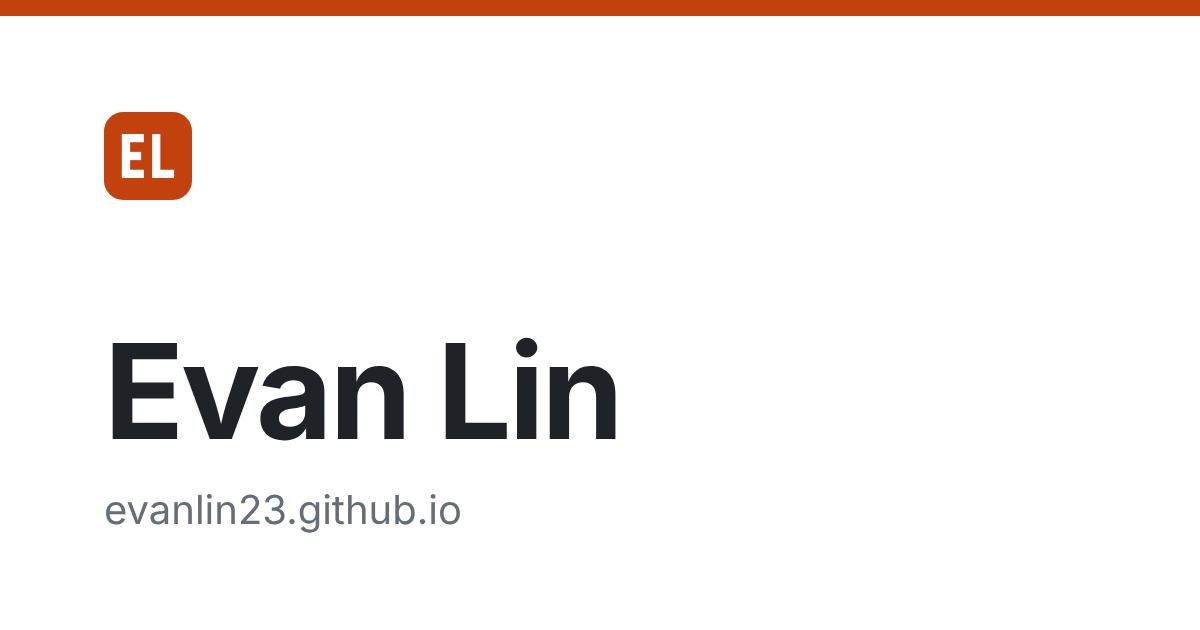
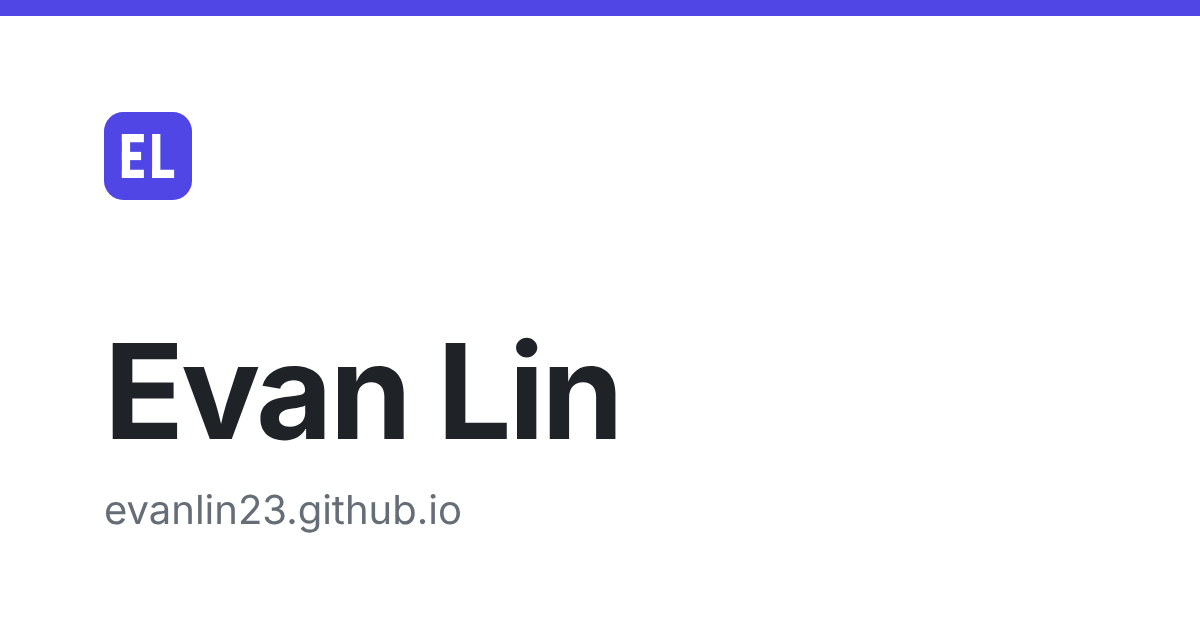
Brighten site with card timeline and indigo accent
Restyle the page with a light blue-tinted background, the Figtree
font, and each experience and education entry as a white card with
the company and date on one row. Section headings get a hatched rule
above them. Switch the accent from orange to indigo, including the
favicon and link-preview image. Content is unchanged.

Claude-Session: https://claude.ai/code/session_016md5fWPeeYFKqut8vThEVG

Changed region(s): [[0.0, 0.0, 1.0, 0.0302], [0.0617, 0.181, 0.185, 0.3317]]

diff --git a/index.html b/index.html
@@ -7,8 +7,8 @@
     <title>Evan Lin</title>
     <link rel="canonical" href="https://evanlin23.github.io/" />
     <link rel="icon" href="favicon.svg" type="image/svg+xml" />
-    <meta name="theme-color" content="#ffffff" media="(prefers-color-scheme: light)" />
-    <meta name="theme-color" content="#0d1117" media="(prefers-color-scheme: dark)" />
+    <meta name="theme-color" content="#f5f7ff" media="(prefers-color-scheme: light)" />
+    <meta name="theme-color" content="#0b1120" media="(prefers-color-scheme: dark)" />
     <meta property="og:type" content="website" />
     <meta property="og:url" content="https://evanlin23.github.io/" />
     <meta property="og:title" content="Evan Lin" />
@@ -18,6 +18,9 @@
     <meta property="og:image:height" content="630" />
     <meta property="og:image:alt" content="Evan Lin" />
     <meta name="twitter:card" content="summary_large_image" />
+    <link rel="preconnect" href="https://fonts.googleapis.com" />
+    <link rel="preconnect" href="https://fonts.gstatic.com" crossorigin />
+    <link href="https://fonts.googleapis.com/css2?family=Figtree:wght@400;500;600;700&display=swap" rel="stylesheet" />
     <link rel="stylesheet" href="styles.css" />
     <script type="application/ld+json">
       {
@@ -49,59 +52,38 @@
         <h2>Experience</h2>
         <ul class="timeline">
           <li>
-            <span class="date">May – Aug 2026</span>
-            <div>
-              <strong>Software Engineer Intern</strong>
-              <span>Roblox</span>
-              <small>Storage infrastructure</small>
-            </div>
+            <div><strong>Roblox</strong><span class="date">May – Aug 2026</span></div>
+            <span>Software Engineer Intern</span>
+            <small>Storage infrastructure</small>
           </li>
           <li>
-            <span class="date">May – Aug 2025</span>
-            <div>
-              <strong>Software Development Engineer Intern</strong>
-              <span>Amazon</span>
-              <small>Service log analysis</small>
-            </div>
+            <div><strong>Amazon</strong><span class="date">May – Aug 2025</span></div>
+            <span>Software Development Engineer Intern</span>
+            <small>Service log analysis</small>
           </li>
           <li>
-            <span class="date">Jan 2025 – Present</span>
-            <div>
-              <strong>Course Assistant → Teaching Assistant</strong>
-              <span>University of Illinois Urbana-Champaign</span>
-              <small>ECE 391 (Operating Systems), ECE 408 (Applied Parallel Programming)</small>
-            </div>
+            <div><strong>University of Illinois Urbana-Champaign</strong><span class="date">Jan 2025 – Present</span></div>
+            <span>Course Assistant → Teaching Assistant</span>
+            <small>ECE 391 (Operating Systems), ECE 408 (Applied Parallel Programming)</small>
           </li>
           <li>
-            <span class="date">Nov 2023 – May 2025</span>
-            <div>
-              <strong>Researcher</strong>
-              <span>Information Trust Institute</span>
-              <small>Linux kernel memory tracing</small>
-            </div>
+            <div><strong>Information Trust Institute</strong><span class="date">Nov 2023 – May 2025</span></div>
+            <span>Researcher</span>
+            <small>Linux kernel memory tracing</small>
           </li>
           <li>
-            <span class="date">Sep 2023 – May 2026</span>
-            <div>
-              <strong>Software Developer → Tech Lead → Co-Director</strong>
-              <span>Hack4Impact UIUC</span>
-              <small>Software for social good</small>
-            </div>
+            <div><strong>Hack4Impact UIUC</strong><span class="date">Sep 2023 – May 2026</span></div>
+            <span>Software Developer → Tech Lead → Co&#8209;Director</span>
+            <small>Software for social good</small>
           </li>
           <li>
-            <span class="date">Sep – Nov 2022</span>
-            <div>
-              <strong>Researcher</strong>
-              <span>Northwestern University</span>
-              <small>Lung tumor segmentation</small>
-            </div>
+            <div><strong>Northwestern University</strong><span class="date">Sep – Nov 2022</span></div>
+            <span>Researcher</span>
+            <small>Lung tumor segmentation</small>
           </li>
           <li>
-            <span class="date">May 2021 – Aug 2022</span>
-            <div>
-              <strong>AMC Preparation Instructor</strong>
-              <span>Oakton College</span>
-            </div>
+            <div><strong>Oakton College</strong><span class="date">May 2021 – Aug 2022</span></div>
+            <span>AMC Preparation Instructor</span>
           </li>
         </ul>
       </section>
@@ -110,18 +92,12 @@
         <h2>Education</h2>
         <ul class="timeline">
           <li>
-            <span class="date">Expected May 2027</span>
-            <div>
-              <strong>Master of Computer Science</strong>
-              <span>University of Illinois Urbana-Champaign</span>
-            </div>
+            <div><strong>Master of Computer Science</strong><span class="date">Expected May 2027</span></div>
+            <span>University of Illinois Urbana-Champaign</span>
           </li>
           <li>
-            <span class="date">May 2026</span>
-            <div>
-              <strong>B.S. Computer Science</strong>
-              <span>University of Illinois Urbana-Champaign</span>
-            </div>
+            <div><strong>B.S. Computer Science</strong><span class="date">May 2026</span></div>
+            <span>University of Illinois Urbana-Champaign</span>
           </li>
         </ul>
       </section>

diff --git a/styles.css b/styles.css
@@ -1,19 +1,21 @@
 :root {
   color-scheme: light dark;
-  --text: #1f2328;
-  --muted: #656d76;
-  --rule: #d8dee4;
-  --accent: #c2410c;
-  --bg: #ffffff;
+  --text: #0f172a;
+  --muted: #526075;
+  --rule: #dfe4f0;
+  --accent: #4f46e5;
+  --bg: #f5f7ff;
+  --card: #ffffff;
 }
 
 @media (prefers-color-scheme: dark) {
   :root {
-    --text: #e6edf3;
-    --muted: #8d96a0;
-    --rule: #30363d;
-    --accent: #fb923c;
-    --bg: #0d1117;
+    --text: #e2e8f0;
+    --muted: #94a3b8;
+    --rule: #26324a;
+    --accent: #a5b4fc;
+    --bg: #0b1120;
+    --card: #111a2e;
   }
 }
 
@@ -22,10 +24,10 @@
 }
 
 body {
-  max-width: 720px;
+  max-width: 640px;
   margin: 0 auto;
   padding: 64px 16px;
-  font-family: -apple-system, BlinkMacSystemFont, "Segoe UI", Helvetica, Arial, sans-serif;
+  font-family: "Figtree", -apple-system, BlinkMacSystemFont, "Segoe UI", Helvetica, Arial, sans-serif;
   font-size: 16px;
   line-height: 1.6;
   color: var(--text);
@@ -33,13 +35,18 @@ body {
 }
 
 h1 {
-  margin: 0 0 8px;
-  font-size: 2rem;
+  margin: 0 0 4px;
+  font-size: 2.25rem;
+  font-weight: 700;
   line-height: 1.2;
+  letter-spacing: -0.02em;
 }
 
 header p {
-  margin: 0 0 12px;
+  margin: 0 0 16px;
+  font-size: 1.25rem;
+  font-weight: 500;
+  color: var(--muted);
 }
 
 nav {
@@ -50,6 +57,7 @@ nav {
 
 a {
   color: var(--accent);
+  font-weight: 600;
   text-decoration: none;
 }
 
@@ -64,29 +72,43 @@ a:focus-visible {
   border-radius: 2px;
 }
 
+/* Hatched line above each section heading. */
 h2 {
   margin: 48px 0 16px;
-  padding-bottom: 6px;
-  font-size: 1.1rem;
-  border-bottom: 1px solid var(--rule);
+  padding-top: 24px;
+  font-size: 1.125rem;
+  font-weight: 600;
+  color: var(--accent);
+  background: repeating-linear-gradient(-45deg, var(--rule) 0 1px, transparent 1px 7px) top / 100% 12px no-repeat;
 }
 
 .timeline {
+  display: grid;
+  gap: 12px;
   margin: 0;
   padding: 0;
   list-style: none;
 }
 
 .timeline li {
-  display: grid;
-  grid-template-columns: 11.5rem 1fr;
-  gap: 16px;
-  margin-bottom: 20px;
+  display: flex;
+  flex-direction: column;
+  padding: 16px 20px;
+  background: var(--card);
+  border: 1px solid var(--rule);
+  border-radius: 12px;
+  transition: border-color 0.2s;
+}
+
+.timeline li:hover {
+  border-color: var(--accent);
 }
 
 .timeline div {
   display: flex;
-  flex-direction: column;
+  flex-wrap: wrap;
+  justify-content: space-between;
+  gap: 0 16px;
 }
 
 .date,
@@ -95,6 +117,8 @@ h2 {
 }
 
 .date {
+  font-size: 0.875rem;
+  font-weight: 600;
   font-variant-numeric: tabular-nums;
   white-space: nowrap;
 }
@@ -108,8 +132,7 @@ h2 {
     padding-top: 40px;
   }
 
-  .timeline li {
-    grid-template-columns: 1fr;
-    gap: 0;
+  .timeline div {
+    flex-direction: column;
   }
 }
